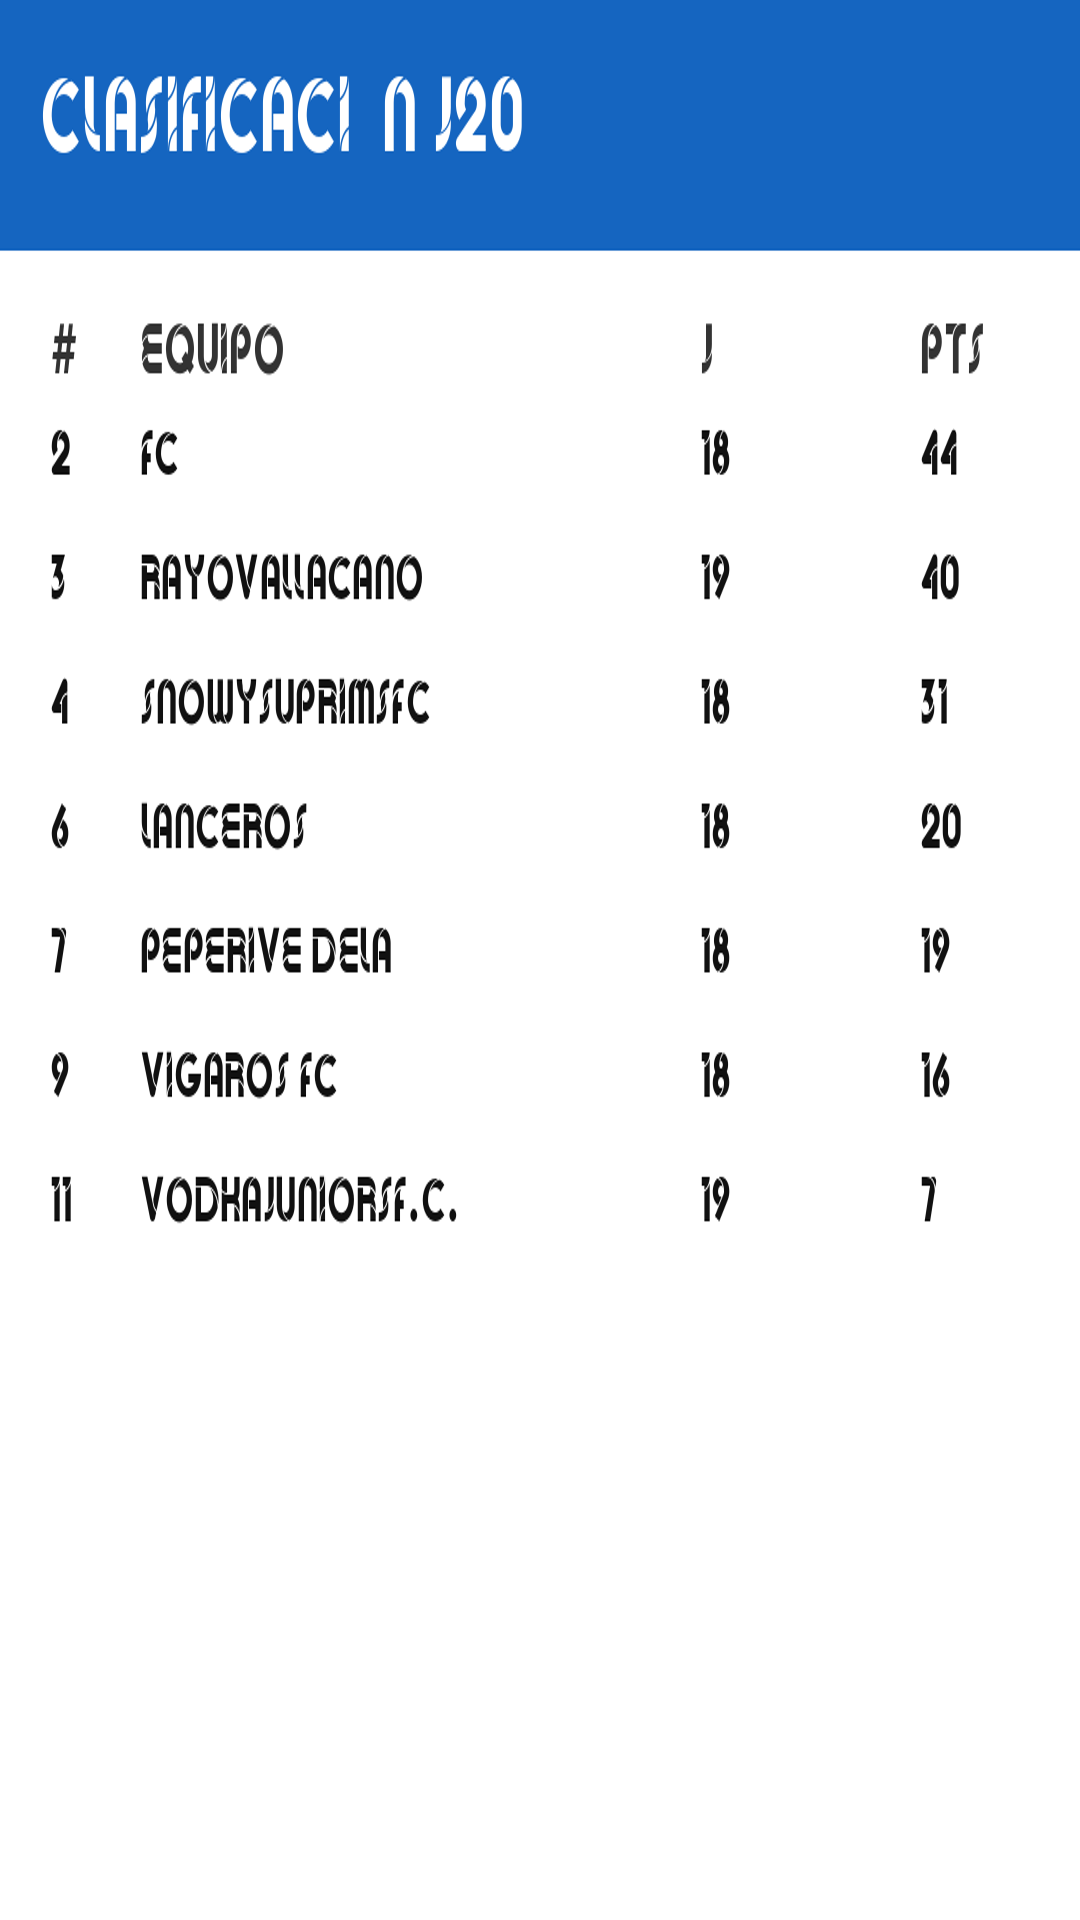
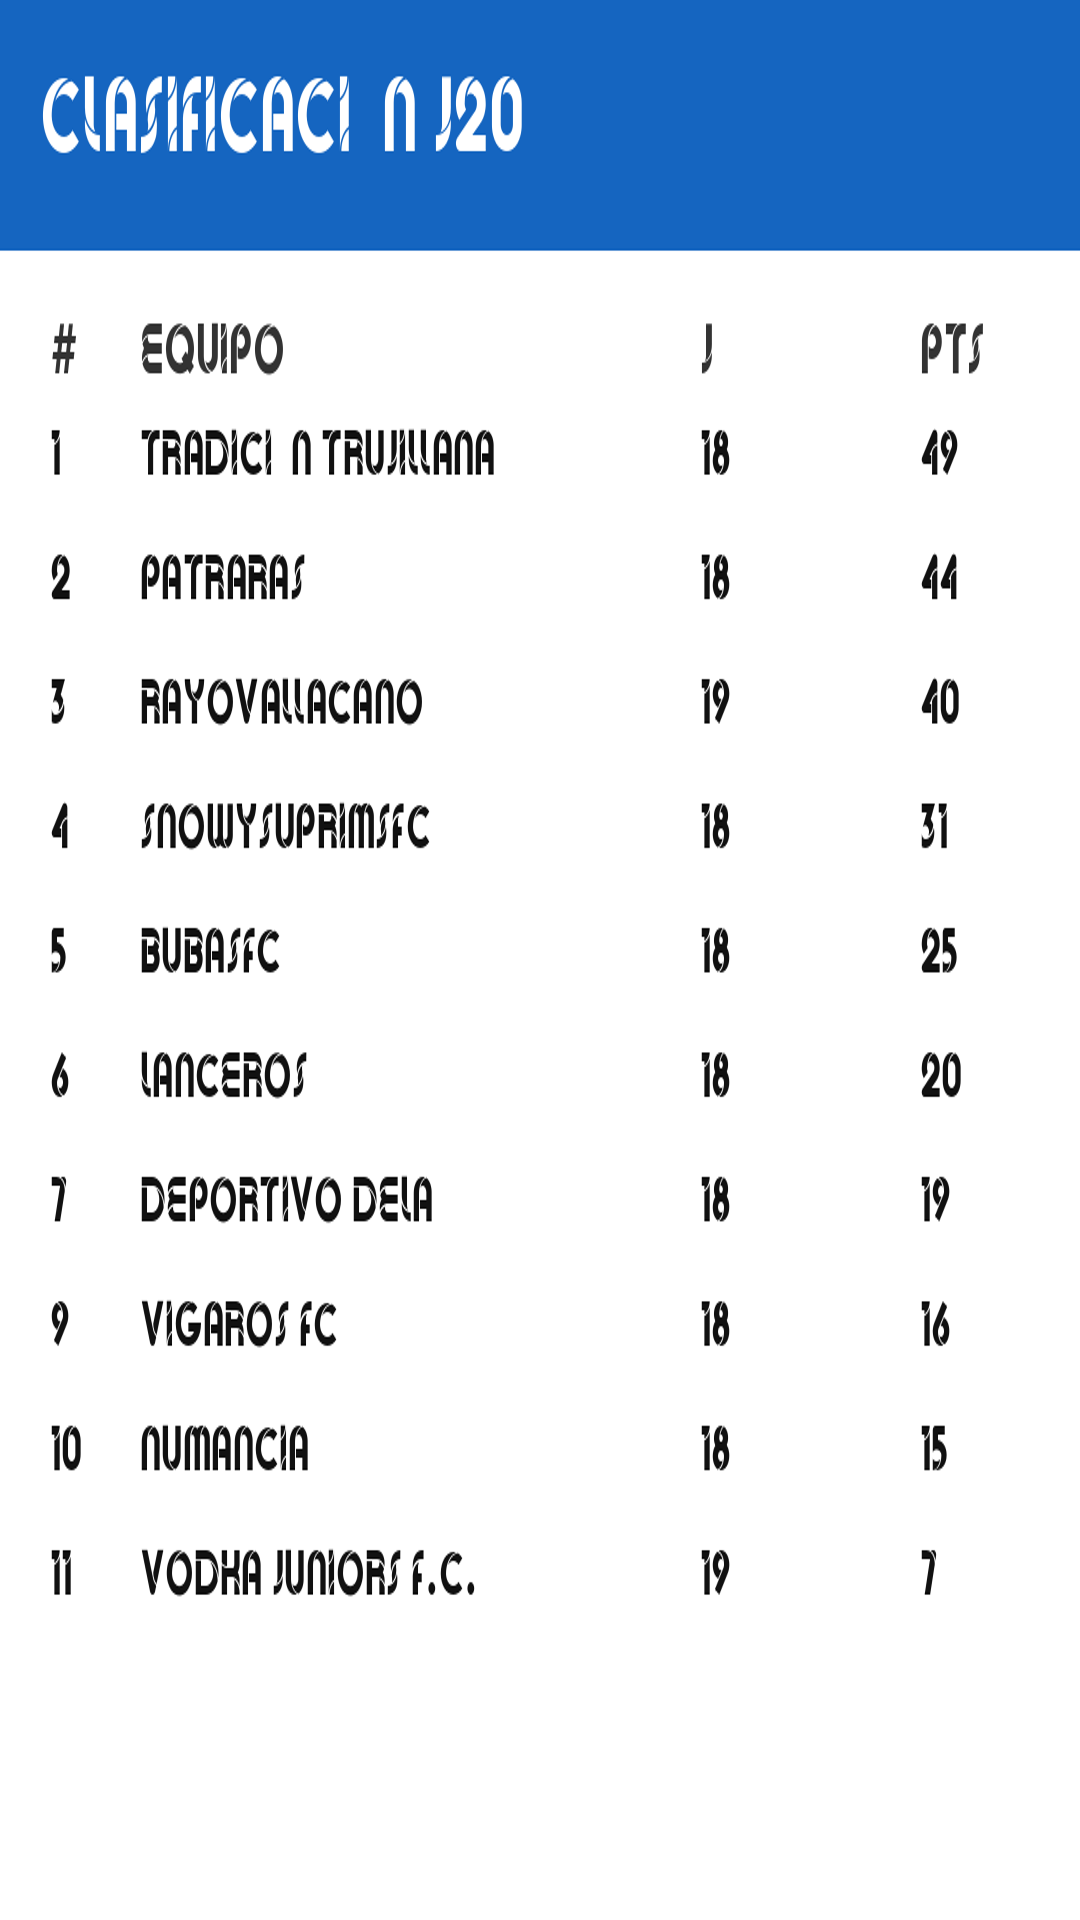
[FIX] tildes

diff --git a/image_generator.py b/image_generator.py
@@ -1,8 +1,15 @@
 from PIL import Image, ImageDraw, ImageFont
 import datetime
 import os
+import unicodedata
 
 EQUIPO = "Tifosi"
+
+
+def normalize_text(texto):
+    texto = unicodedata.normalize('NFD', texto)
+    texto = ''.join(ch for ch in texto if unicodedata.category(ch) != 'Mn')
+    return texto.replace('Ñ', 'N').replace('ñ', 'n')
 
 # =========================
 # FUNCIONES DE CENTRADO
@@ -399,7 +406,7 @@ def generar_clasificacion(jornada, clasificacion):
     row_font = ImageFont.truetype("fonts/Bauman-Regular.ttf", 36)
 
     draw.rectangle([(0, 0), (ancho, 140)], fill="#1565c0")
-    draw.text((40, 40), f"Clasificación J{jornada}", fill="white", font=title_font)
+    draw.text((40, 40), normalize_text(f"Clasificación J{jornada}"), fill="white", font=title_font)
 
     x_pos = [50, 140, 700, 920]
     draw.text((x_pos[0], 180), "#", fill="#333333", font=header_font)
@@ -410,7 +417,7 @@ def generar_clasificacion(jornada, clasificacion):
     y = 240
     for item in clasificacion:
         draw.text((x_pos[0], y), str(item["pos"]), fill="#111111", font=row_font)
-        draw.text((x_pos[1], y), item["equipo"], fill="#111111", font=row_font)
+        draw.text((x_pos[1], y), normalize_text(item["equipo"]), fill="#111111", font=row_font)
         draw.text((x_pos[2], y), str(item["pj"]), fill="#111111", font=row_font)
         draw.text((x_pos[3], y), str(item["pts"]), fill="#111111", font=row_font)
         y += 70

diff --git a/parser.py b/parser.py
@@ -1,5 +1,13 @@
 import re
+import unicodedata
 from ocr import leer_imagen
+
+
+def normalize_text(texto):
+    texto = unicodedata.normalize('NFD', texto)
+    texto = ''.join(ch for ch in texto if unicodedata.category(ch) != 'Mn')
+    return texto.replace('Ñ', 'N').replace('ñ', 'n')
+
 
 def parse_resultado(texto):
     jornada = int(re.search(r'J(\d+)', texto).group(1))
@@ -21,7 +29,7 @@ def parse_resultado(texto):
 
 
 def parse_clasificacion_text(texto):
-    texto = texto.replace('\xa0', ' ')
+    texto = normalize_text(texto.replace('\xa0', ' '))
     lines = [re.sub(r'\s+', ' ', line).strip() for line in texto.splitlines()]
 
     clasificacion = []
